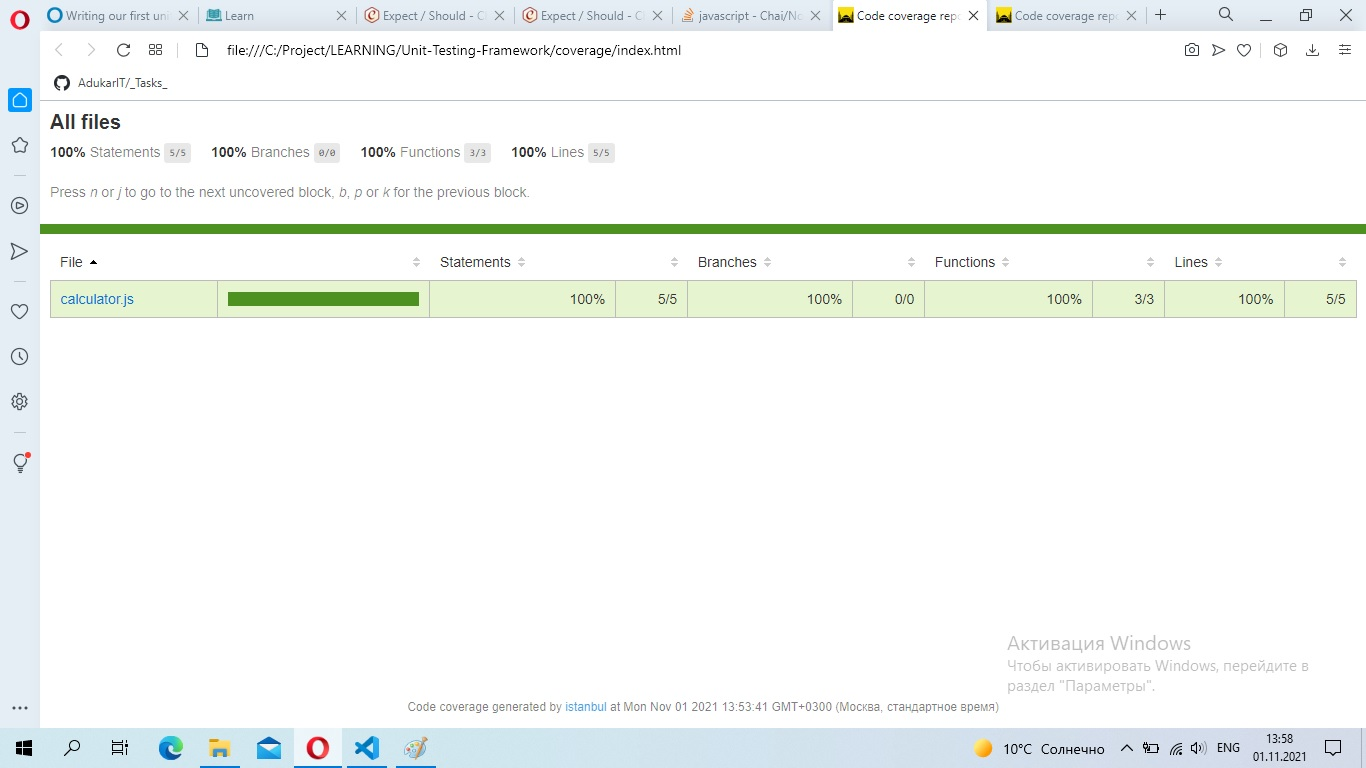
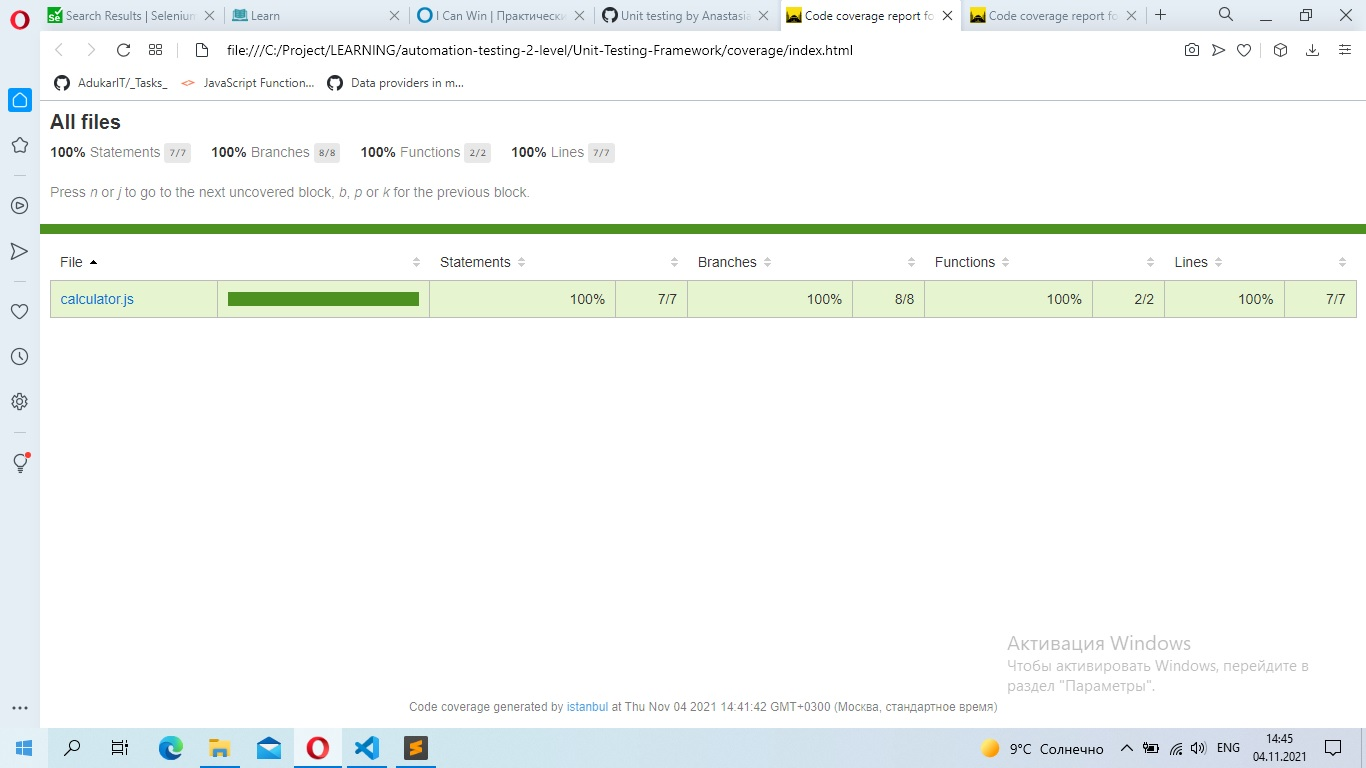
task updated

diff --git a/Unit-Testing-Framework/test/specs/calculator/multiply.spec.js b/Unit-Testing-Framework/test/specs/calculator/multiply.spec.js
@@ -1,66 +1,27 @@
-const Calculator = require('../../../app/calculator.js');
 const { expect } = require('chai');
+const Calculator = require('../../../app/calculator.js');
 
-describe('is multiply positive case', function () {
-    let numbers;
-    beforeEach(function () {
-        numbers = new Calculator();
-    });
-    afterEach(function () {
-        numbers = null;
-    });
-    it('should return the result of multiplication when adding two integers', function () {
-        expect(numbers.multiply(20, 5)).to.be.equal(100);
-    });
-    it('should return  the result of multiplication of two fractional numbers ', function () {
-        expect(numbers.multiply(0.5, 0.5)).to.be.equal(0.25);
-    });
-    it('should return  the result of multiplication when one argument is an integer and the other is fractional', function () {
-        expect(numbers.multiply(10, 2.5)).to.be.equal(25);
-    });
-    it('should return  the result of multiplication, which will be positive if the two arguments are negative numbers', function () {
-        expect(numbers.multiply(-5, -3)).to.be.equal(15);
-    });
-});
+const arrForMultiply = [
+    { arg1: 20, arg2: 5, result: 100 },
+    { arg1: 0.5, arg2: 0.5, result: 0.25 },
+    { arg1: 10, arg2: 2.5, result: 25 },
+    { arg1: -5, arg2: -3, result: 15 },
+];
 
-describe('is multiply negative case', function () {
-    beforeEach(function () {
-        numbers = new Calculator();
+describe('Function multiply for Calculator', function () {
+    before(function () {
+        calc = new Calculator();
     });
-    afterEach(function () {
-        number = null;
+    arrForMultiply.forEach(({ arg1, arg2, result }) => {
+        describe('Function multiply for Calculator', function () {
+            it(`should return ${result} when arg1 = ${arg1} and arg2 = ${arg2}`, function () {
+                expect(calc.multiply(arg1, arg2)).to.be.equal(result);
+            });
+        });
     });
-    it('should return the NaN if the first argument is "string" and the second is "number" ', function () {
-        expect(numbers.multiply('qw', 2)).to.be.NaN;
-    });
-    it('should return the NaN if the first argument is "number" and the second is "string"', function () {
-        expect(numbers.multiply(2, 'qw')).to.be.NaN;
-    });
-    it('should return the NaN if both arguments are of type "string"', function () {
-        expect(numbers.multiply('Ivan', 'Ivanov')).to.be.NaN;
-    });
-    it('should return the result of multiplication, if the first argument is a "number" and the second is "boolean" false (false = 0)', function () {
-        expect(numbers.multiply(10, false)).to.be.equal(0);
-    });
-    it('should return the result of multiplication if the first argument is a "boolean" false (false = 0) and the second is "number"', function () {
-        expect(numbers.multiply(false, 12)).to.be.equal(0);
-    });
-    it('should return the result of multiplication if the first argument is a "number" and the second is "boolean" true (true = 1)', function () {
-        expect(numbers.multiply(20, true)).to.be.equal(20);
-    });
-    it('should return the result of multiplication if the first argument is a "boolean" true (true = 1) and the second is "number"', function () {
-        expect(numbers.multiply(true, 15)).to.be.equal(15);
-    });
-    it('should return the result of multiplication if both arguments are boolean (false converts to 0, true to 1) ', function () {
-        expect(numbers.multiply(false, true)).to.be.equal(0);
-    });
-    it('should return the result of multiplication if the first argument is a number of the "string" type and the second of the "number" type', function () {
-        expect(numbers.multiply('2', 5)).to.be.equal(10);
-    });
-    it('should return the result of multiplication if the first argument is a "number" type and the second is a number of the "string" type', function () {
-        expect(numbers.multiply(10, '7')).to.be.equal(70);
-    });
-    it('should return the result of multiplication if both arguments are represented by a number of type "string"', function () {
-        expect(numbers.multiply('50', '4')).to.be.equal(200);
+    it('should return the error message when at least one of the arguments is not of type "number"', function () {
+        expect(() => calc.multiply(1, 'qw')).to.throw(
+            'The entered parameters are not numbers'
+        );
     });
 });

diff --git a/Unit-Testing-Framework/test/specs/calculator/add.spec.js b/Unit-Testing-Framework/test/specs/calculator/add.spec.js
@@ -1,57 +1,28 @@
-const Calculator = require('../../../app/calculator.js');
 const { expect } = require('chai');
+const Calculator = require('../../../app/calculator.js');
 
-describe('is addition positive case', function () {
-    let numbers;
-    beforeEach(function () {
-        numbers = new Calculator();
-    });
-    afterEach(function () {
-        numbers = null;
-    });
-    it('should return the sum when adding two integers', function () {
-        expect(numbers.add(2, 8)).to.be.equal(10);
-    });
-    it('should return the sum of two fractional numbers ', function () {
-        expect(numbers.add(0.5, 0.6)).to.be.equal(1.1);
-    });
-    it('should return the sum when one argument is an integer and the other is fractional ', function () {
-        expect(numbers.add(10, 2.5)).to.be.equal(12.5);
-    });
-    it('should return the sum, which will be negative if the two arguments are negative numbers', function () {
-        expect(numbers.add(-5, -5)).to.be.equal(-10);
-    });
-});
+const arrForAdd = [
+    { arg1: 2, arg2: 8, result: 10 },
+    { arg1: 0.5, arg2: 0.6, result: 1.1 },
+    { arg1: 10, arg2: 2.5, result: 12.5 },
+    { arg1: -5, arg2: -5, result: -10 },
+];
 
-describe('is addition negative case', function () {
-    beforeEach(function () {
-        numbers = new Calculator();
+describe('Function add for Calculator', function () {
+    let calc;
+    before(function () {
+        calc = new Calculator();
     });
-    afterEach(function () {
-        number = null;
+    arrForAdd.forEach(({ arg1, arg2, result }) => {
+        describe('Function add for Calculator', function () {
+            it(`should return ${result} when arg1 = ${arg1} and arg2 = ${arg2}`, function () {
+                expect(calc.add(arg1, arg2)).to.be.equal(result);
+            });
+        });
     });
-    it('should return the sum as a concatenation if the first argument is "string" and the second is a "number"', function () {
-        expect(numbers.add('qw', 2)).to.be.equal('qw2');
-    });
-    it('should return the sum as a concatenation if the first argument is "number" and the second is a "string"', function () {
-        expect(numbers.add(2, 'qw')).to.be.equal('2qw');
-    });
-    it('should return the sum as concatenation if both arguments are of type "string"', function () {
-        expect(numbers.add('Ivan', 'Ivanov')).to.be.equal('IvanIvanov');
-    });
-    it('should return the sum if the first argument is a "number" and the second is "boolean" false (false = 0)', function () {
-        expect(numbers.add(10, false)).to.be.equal(10);
-    });
-    it('should return the sum if the first argument is a "boolean" false (false = 0) and the second is "number"', function () {
-        expect(numbers.add(false, 12)).to.be.equal(12);
-    });
-    it('should return the sum if the first argument is a "number" and the second is "boolean" true (true = 1)', function () {
-        expect(numbers.add(20, true)).to.be.equal(21);
-    });
-    it('should return the sum if the first argument is a "boolean" true (true = 1) and the second is "number"', function () {
-        expect(numbers.add(true, 15)).to.be.equal(16);
-    });
-    it('should return the sum if both arguments are boolean (false converts to 0, true to 1) ', function () {
-        expect(numbers.add(false, true)).to.be.equal(1);
+    it('should return the error message when at least one of the arguments is not of type "number"', function () {
+        expect(() => calc.add(1, '2')).to.throw(
+            'The entered parameters are not numbers'
+        );
     });
 });

diff --git a/Unit-Testing-Framework/app/calculator.js b/Unit-Testing-Framework/app/calculator.js
@@ -5,38 +5,34 @@
  */
 class Calculator {
     /**
-     * Creates an instance of Calculator.
-     * @param {number} numberOne is first number
-     * @param {number} numberTwo is second number
+     *
+     *
+     * @param {number} numberOne
+     * @param {number} numberTwo
+     * @return {number} is result of addition the numbers: numberOne and numberTwo
      * @memberof Calculator
      */
-    constructor(numberOne, numberTwo) {
-        this.numberOne = numberOne;
-        this.numberTwo = numberTwo;
+    add (numberOne, numberTwo) {
+        if (typeof numberOne === 'number' && typeof numberTwo === 'number') {
+            return numberOne + numberTwo;
+        } else {
+            throw new Error('The entered parameters are not numbers');
+        }
     }
-
     /**
      *
      *
      * @param {number} numberOne
      * @param {number} numberTwo
-     * @return {number} is addition  of numbers: numberOne and numberTwo
+     * @return {number} is result of multiplication the numbers: numberOne and numberTwo
      * @memberof Calculator
      */
-    add(numberOne, numberTwo) {
-        return numberOne + numberTwo;
-    }
-
-    /**
-     *
-     *
-     * @param {number} numberOne
-     * @param {number} numberTwo
-     * @return {number} is mupliply of numbers: numberOne and numberTwo
-     * @memberof Calculator
-     */
-    multiply(numberOne, numberTwo) {
-        return numberOne * numberTwo;
+    multiply (numberOne, numberTwo) {
+        if (typeof numberOne === 'number' && typeof numberTwo === 'number') {
+            return numberOne * numberTwo;
+        } else {
+            throw new Error('The entered parameters are not numbers');
+        }
     }
 }
 

diff --git a/Unit-Testing-Framework/.mocharc.js b/Unit-Testing-Framework/.mocharc.js
@@ -2,6 +2,5 @@ const Mochawesome = require('mochawesome');
 
 module.exports = {
     spec: 'test/specs/calculator/*.spec.js',
-    // reporter: 'mochawesome',
     reporter: 'spec',
 };
